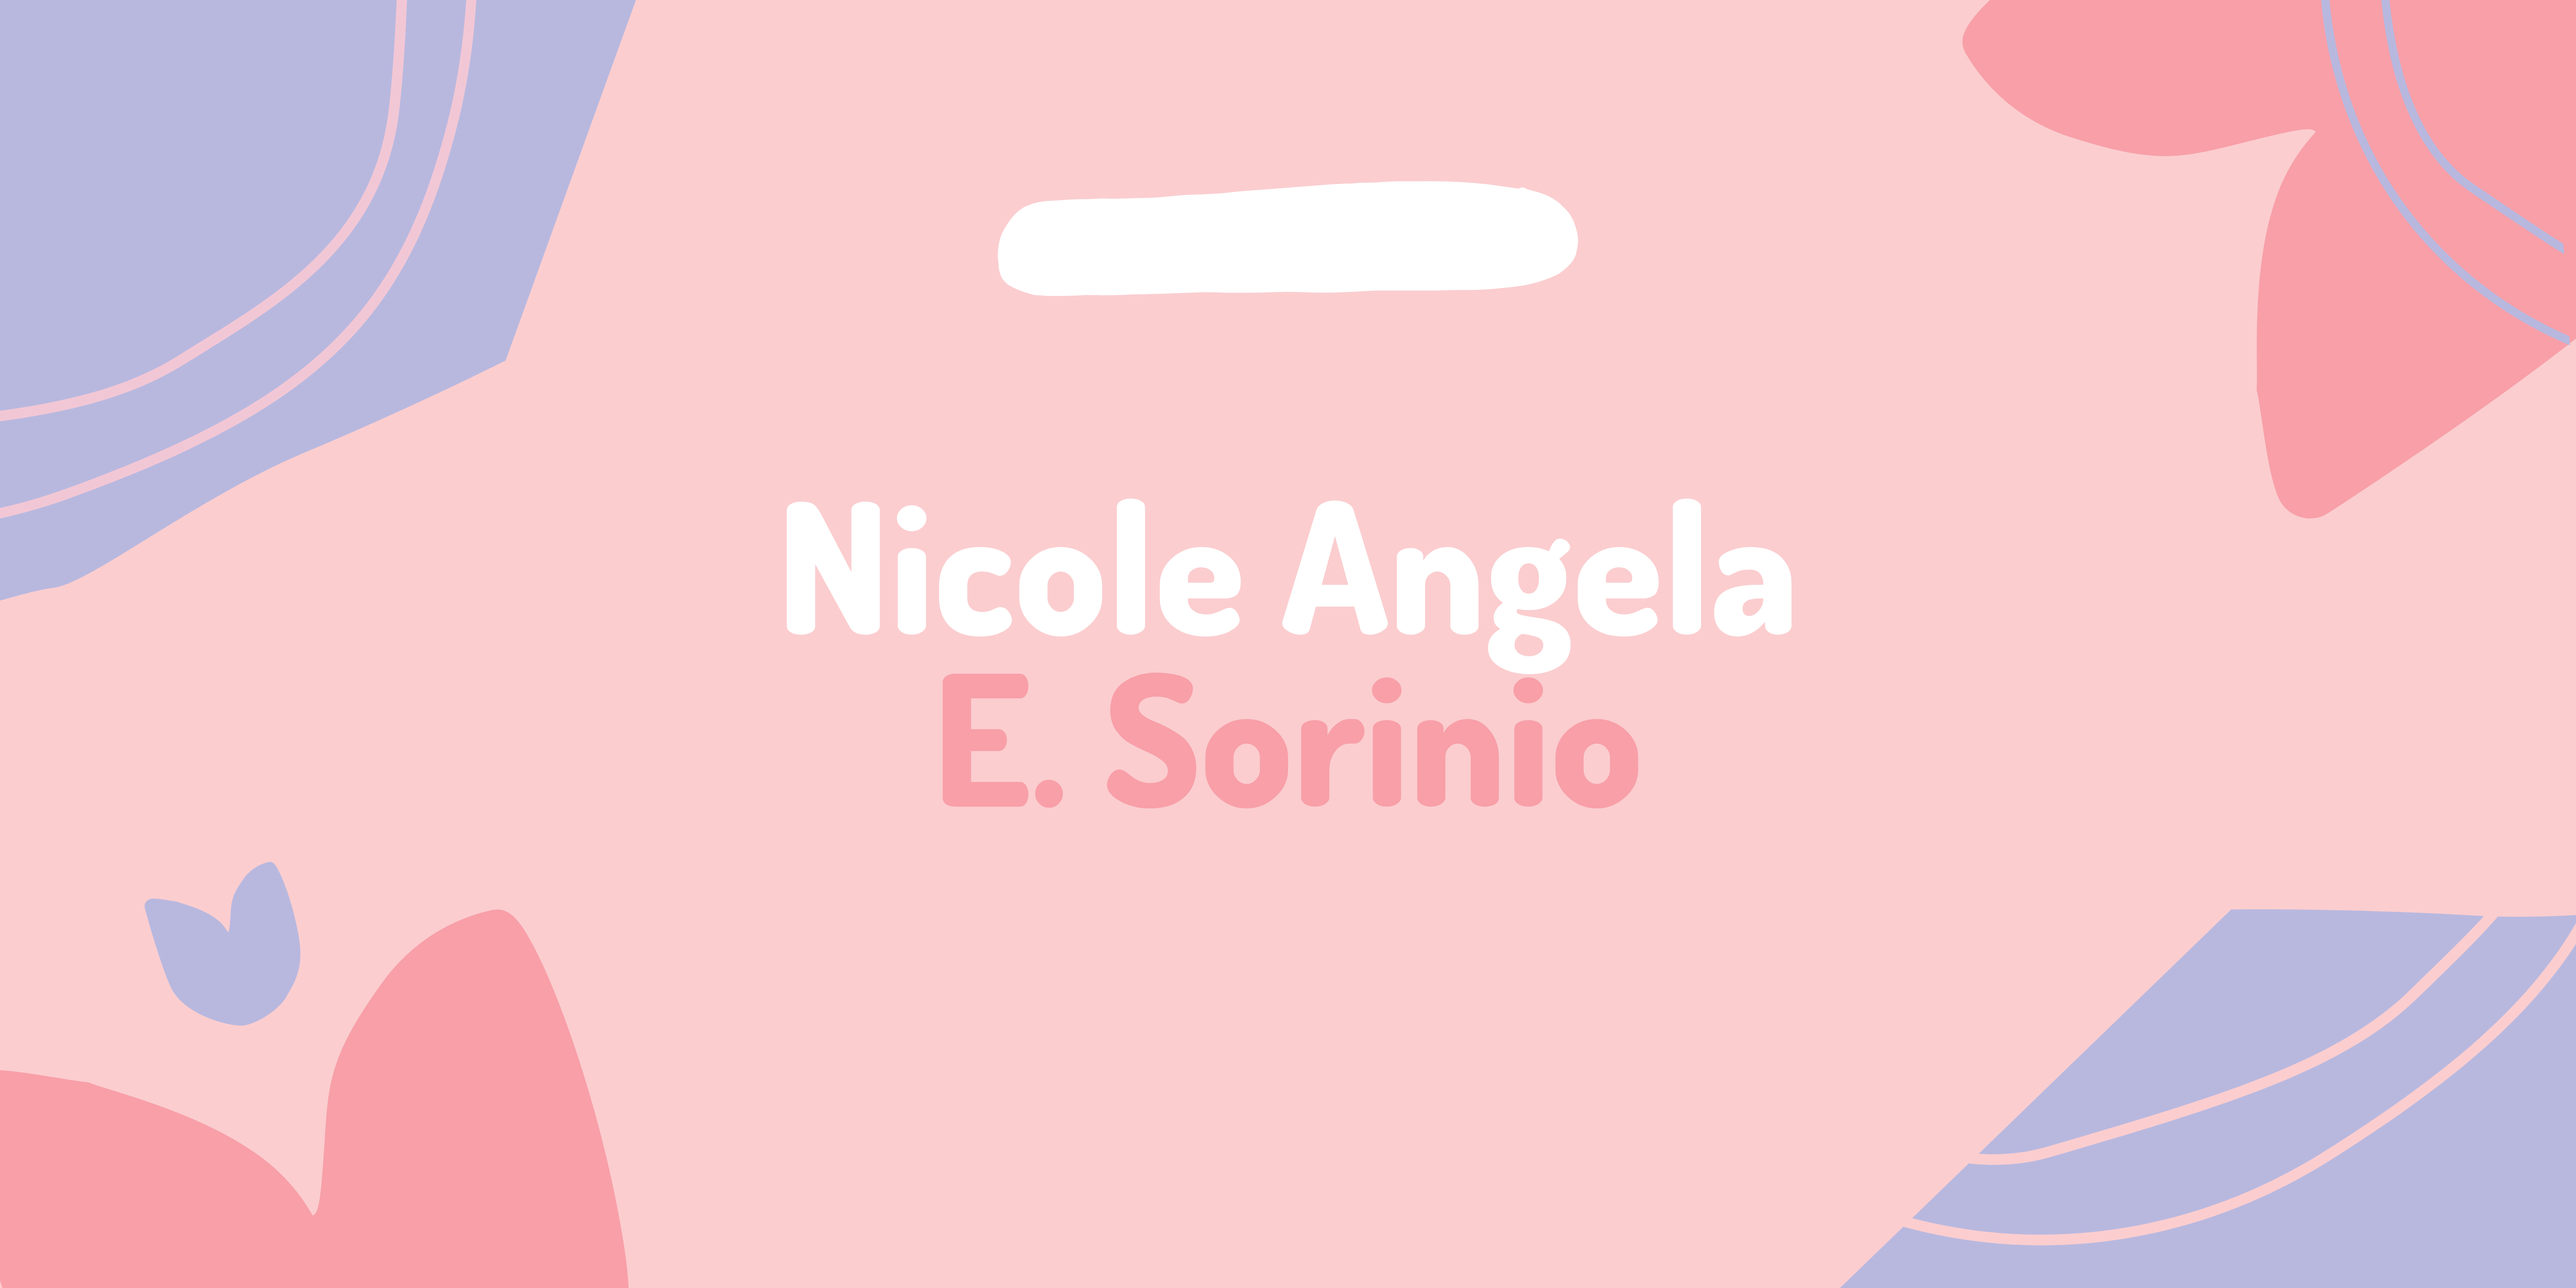
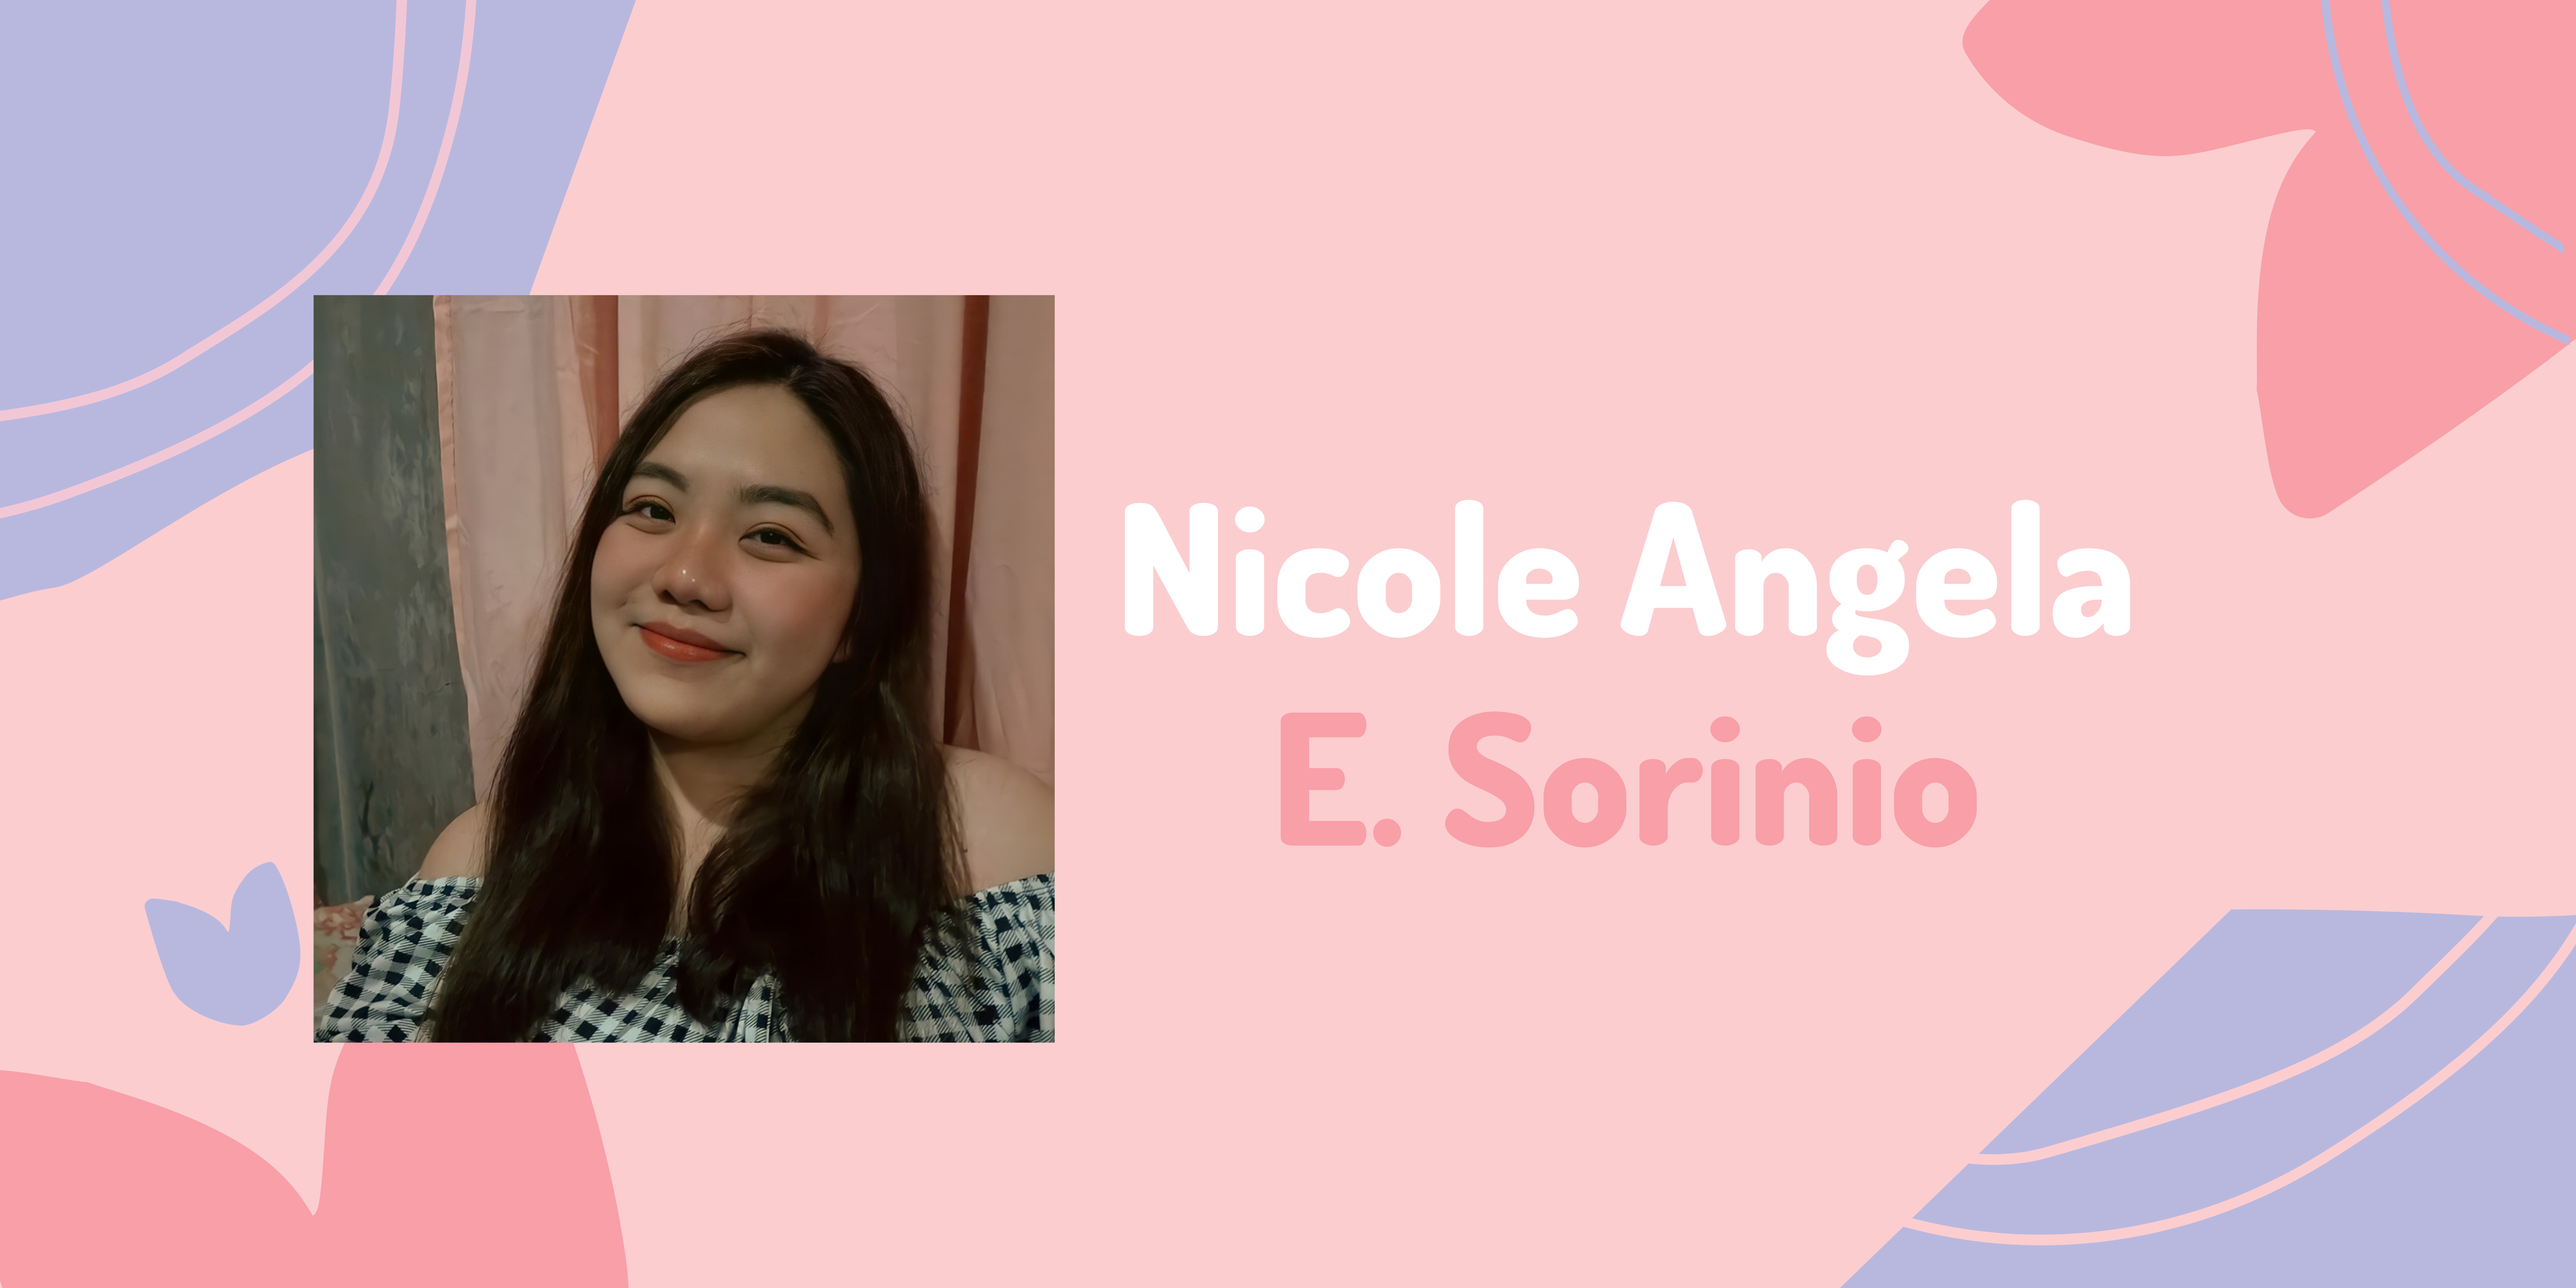
Added all photos for faves
- Changed the background from plum ---> gradient lavender blush, plum
- MISSING:
	*** reasons why for faves

Changed region(s): [[0.0938, 0.125, 0.8438, 0.8125]]

diff --git a/index.html b/index.html
@@ -8,19 +8,21 @@
   <body>
     <h1>ABOUT ME!</h1>
     <br>
-    <h3>My name is...</h3>
+    <h2>My name is...</h2>
     <img src="images/fullname.png">
-    <h2>Nicole Angela E. Sorinio</h2>
-    <h3>But you can call me...</h3>
+    <h2>But you can call me...</h2>
     <img src="images/nickname.png">
-    <h2>Nicole</h2>
-    <h3>My favorite CMSC subject so far is...</h3>
+    <h2>My favorite CMSC subject so far is...</h2>
+    <img src="images/favecmscsubject.png">
     <p>CMSC 22 because I loved Java. I understood the concepts and I think it allowed me to be organized. I can think of different classes as real-world objects and implement variables and methods in a similar way like they are in real life.</p>
-    <h3>My favorite GE so far is...</h3>
+    <h2>My favorite GE so far is...</h2>
+    <img src="images/favegesubject.png">
     <p>___ because </p>
-    <h3>My favorite programming language so far is...</h3>
+    <h2>My favorite programming language so far is...</h2>
+    <img src="images/faveprogramminglanguage.png">
     <p>Java!  </p>
-    <h3>My favorite foods are...</h3>
+    <h2>My favorite foods are...</h2>
+    <img src="images/favefoods.png">
     <p>___</p>
     
   </body>

diff --git a/styles.css b/styles.css
@@ -1,5 +1,5 @@
 body {
-    background: plum;
+    background: linear-gradient(lavenderblush,plum);
     text-align: center;
 }
 
@@ -8,13 +8,13 @@ h1 {
     font-weight: bold;
 }
 
-h3 {
+h2 {
     font-family: monospace;
 }
 
 img {
-    width: 100px;
-    border-radius: 10px;
+    width: 500px;
+    border-radius: 15px;
     display: block;
     margin-left: auto;
     margin-right: auto;
